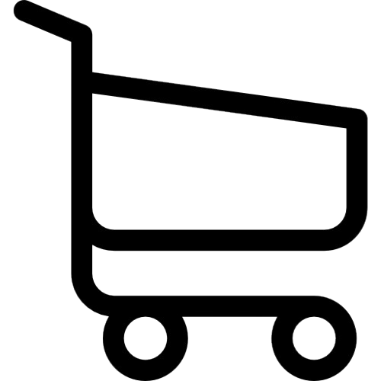
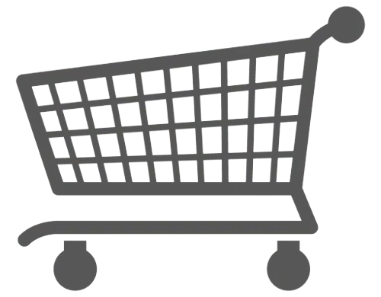
sim

diff --git a/Farmarcia-Santos-Dumonte/src/components/header/Header.css b/Farmarcia-Santos-Dumonte/src/components/header/Header.css
@@ -2,7 +2,7 @@
   width: 100%;
   min-height: 70px;
   padding: 12px 24px;
-  background-color: #0C85F0;
+  background-color: #0c85f0;
 
   display: flex;
   align-items: center;
@@ -148,5 +148,53 @@ usuario,
   width: 45px;
   height: 45px;
   object-fit: contain;
+}
+.carrinho {
+  width: 40px;
+  height: 40px;
+  padding: 0;
+
+  background-color: #ffffff;
+  border: none;
+  border-radius: 50%;
+
+  display: flex;
+  align-items: center;
+  justify-content: center;
+
+  cursor: pointer;
   flex-shrink: 0;
+}
+
+.carrinho img {
+  width: 26px;
+  height: 26px;
+  object-fit: contain;
+  display: block;
+}
+
+.usuario,
+.carrinho {
+  width: 40px;
+  height: 40px;
+  padding: 0;
+  box-sizing: border-box;
+
+  display: flex;
+  align-items: center;
+  justify-content: center;
+
+  background-color: #ffffff;
+  border: none;
+  border-radius: 50%;
+  cursor: pointer;
+  flex-shrink: 0;
+}
+
+.usuario img,
+.carrinho img {
+  width: 28px;
+  height: 28px;
+  object-fit: contain;
+  display: block;
 }
